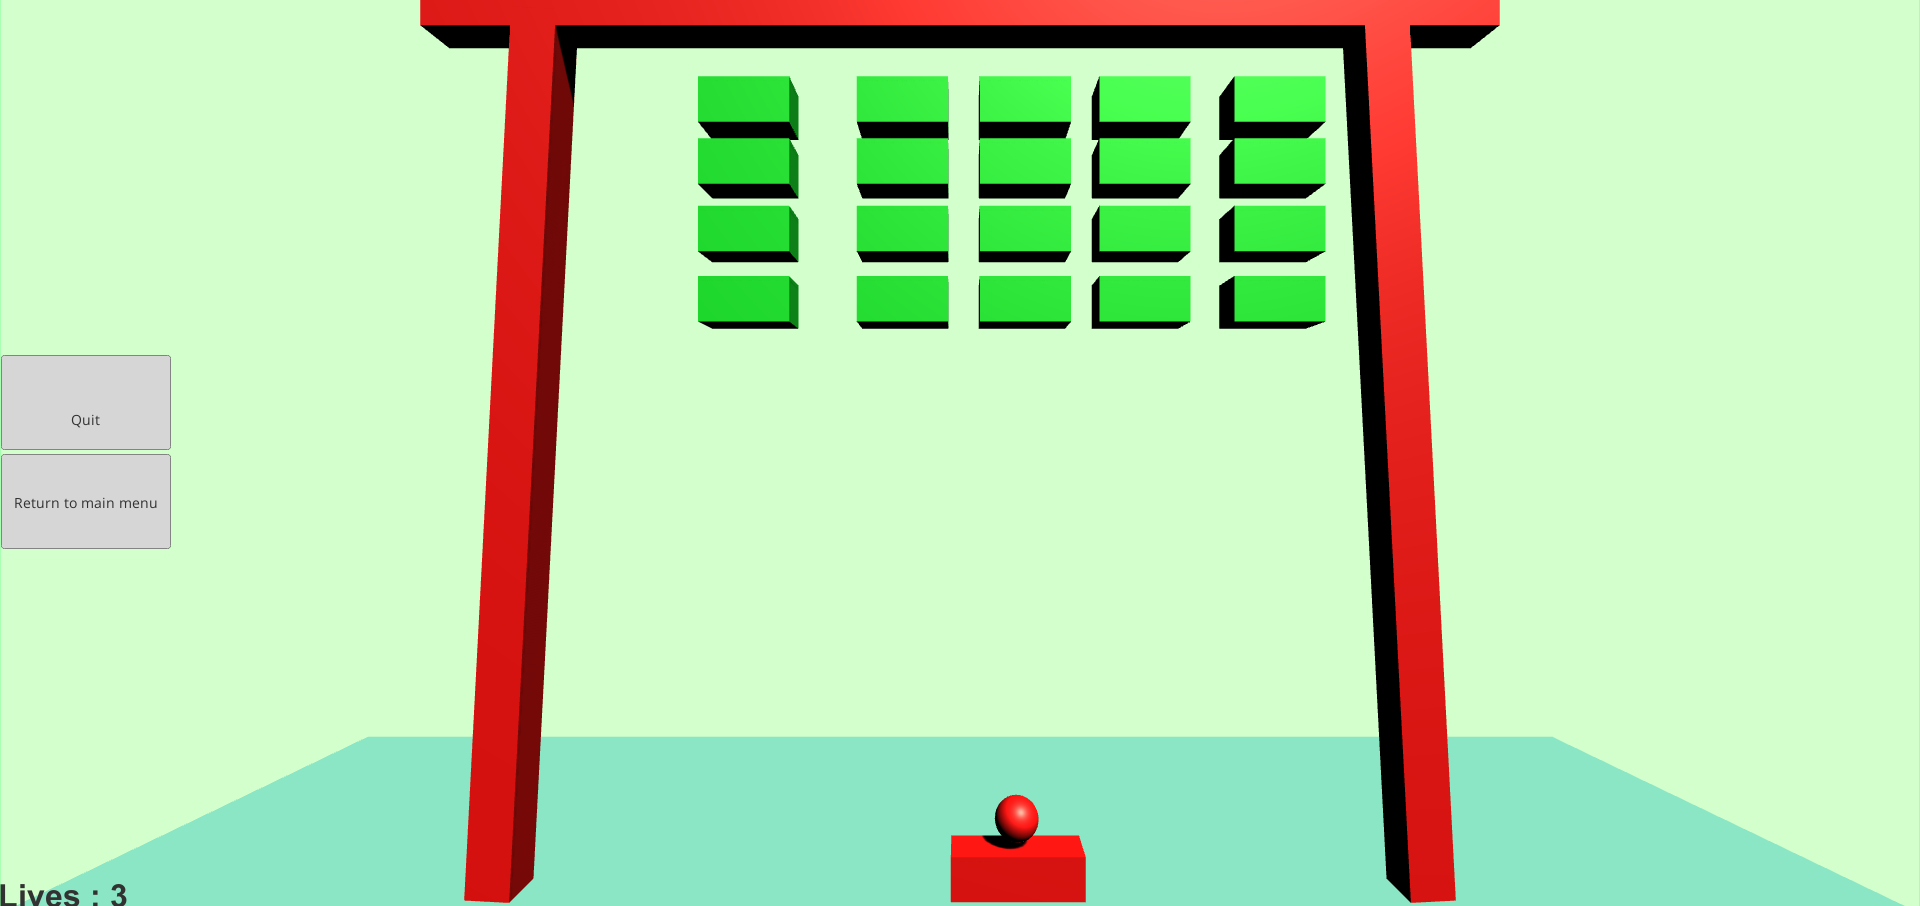
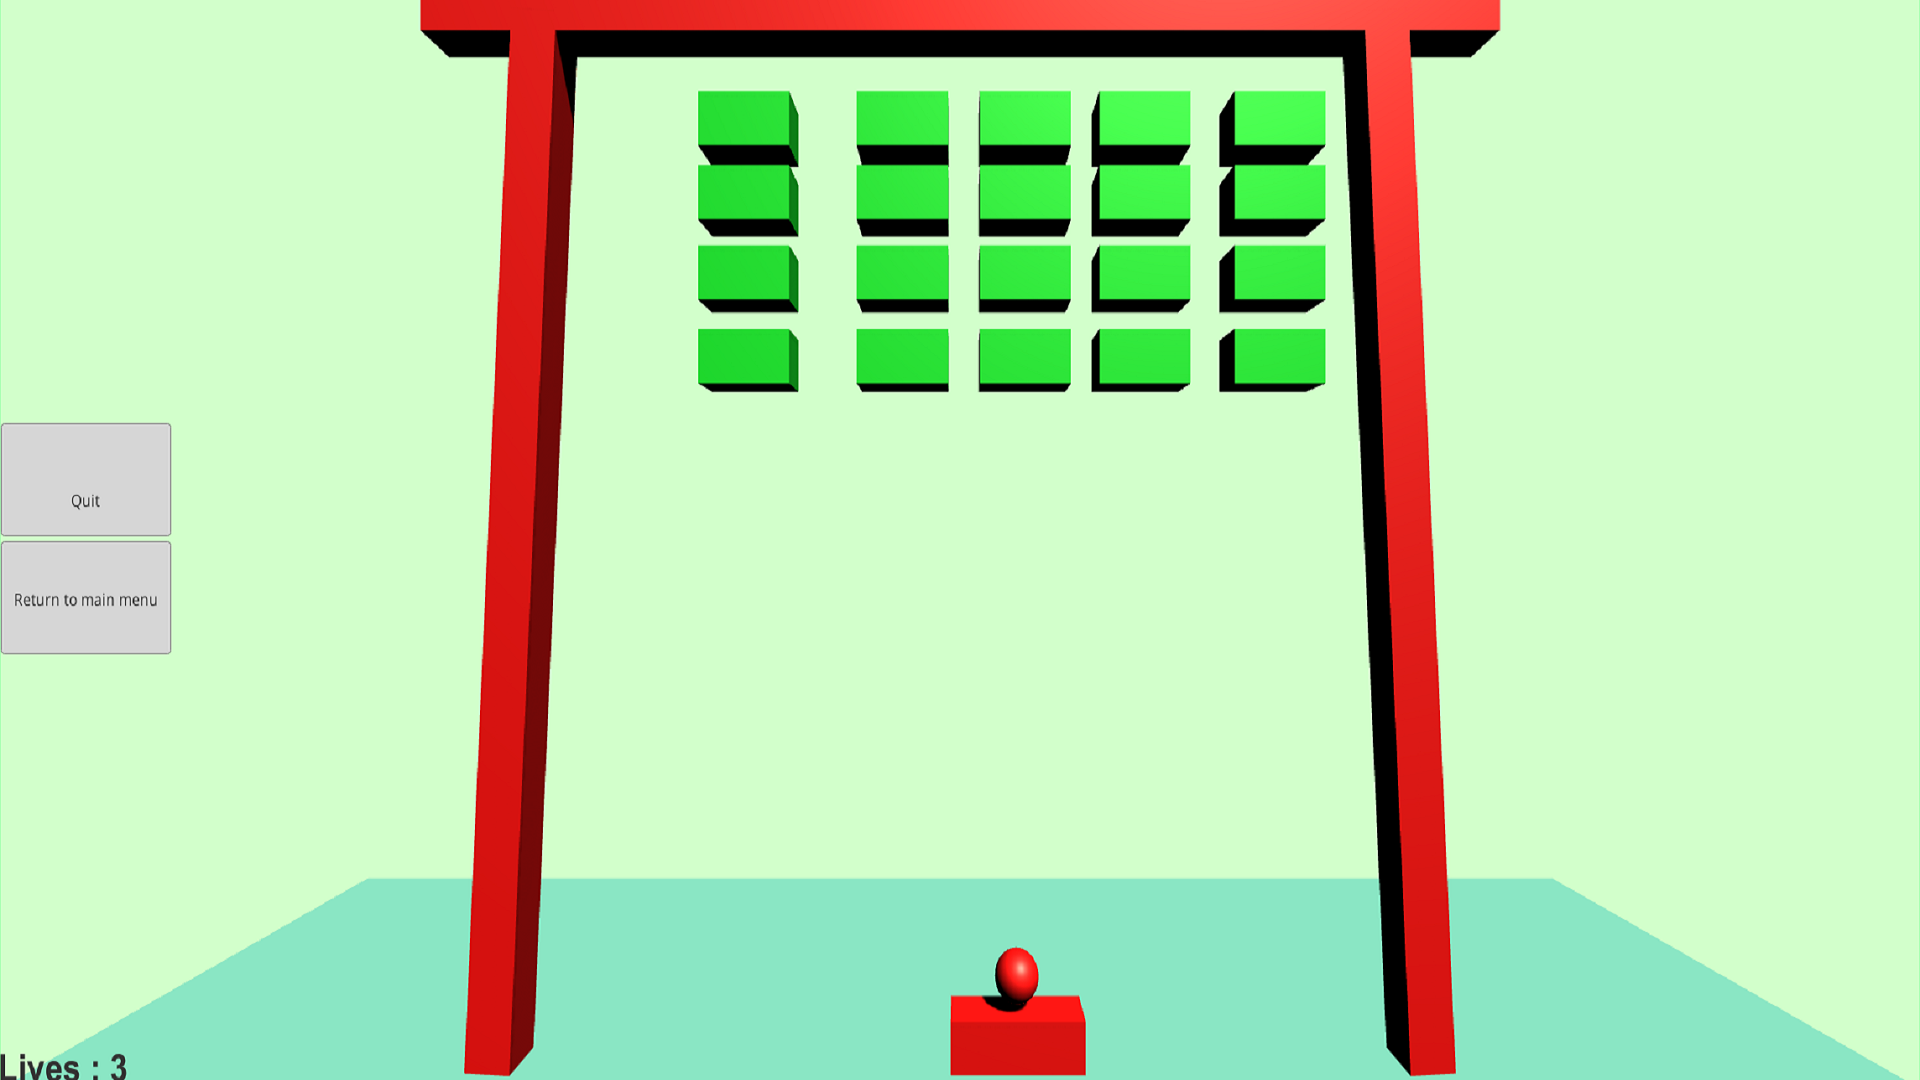
Fixed Carousel
Fixed Carousel and resized pictures to 1920 x 1080

diff --git a/index.html b/index.html
@@ -3,69 +3,69 @@
 <html>
 
   <head>
-    <link href="Pages/bootstrap.css" rel="stylesheet">
-    <link href="Pages/Finished structure of a website CSS.css" rel="stylesheet" type="text/css">
-    <link rel="stylesheet" href="https://maxcdn.bootstrapcdn.com/bootstrap/3.3.7/css/bootstrap.min.css">
-    <script src="https://ajax.googleapis.com/ajax/libs/jquery/3.2.1/jquery.min.js"></script>
-    <script src="https://maxcdn.bootstrapcdn.com/bootstrap/3.3.7/js/bootstrap.min.js"></script>    
+	<link href="Pages/bootstrap.css" rel="stylesheet">
+	<link href="Pages/Finished structure of a website CSS.css" rel="stylesheet" type="text/css">
+	<link rel="stylesheet" href="https://maxcdn.bootstrapcdn.com/bootstrap/3.3.7/css/bootstrap.min.css">
+	<script src="https://ajax.googleapis.com/ajax/libs/jquery/3.2.1/jquery.min.js"></script>
+	<script src="https://maxcdn.bootstrapcdn.com/bootstrap/3.3.7/js/bootstrap.min.js"></script>    
   </head>
 
   <body>
-    <div class="nav">
-      <div class="container">
-        <ul class="pull-left">
-          <li><a href="index.html">Home</a></li>
-        </ul>
-      </div>
-    </div>
+	<div class="nav">
+	  <div class="container">
+		<ul class="pull-left">
+		  <li><a href="index.html">Home</a></li>
+		</ul>
+	  </div>
+	</div>
 
-    <div class="jumbotron">
-      <div class="container">
-        <h1>Welcome to my website</h1>
-        <p>The first two links are my most recents projects. The third link will take you to a page where you can see all my work.</p>          
-      </div>
-    </div> 
+	<div class="jumbotron">
+	  <div class="container">
+		<h1>Welcome to my website</h1>
+		<p>The first two links are my most recents projects. The third link will take you to a page where you can see all my work.</p>          
+	  </div>
+	</div> 
 
-      <div class="container">
+	  <div class="container">
   <div id="myCarousel" class="carousel slide" data-ride="carousel">
-    <!-- Indicators -->
-    <ol class="carousel-indicators">
-      <li data-target="#myCarousel" data-slide-to="0" class="active"></li>
-      <li data-target="#myCarousel" data-slide-to="1"></li>
-      <li data-target="#myCarousel" data-slide-to="2"></li>
-    </ol>
+	<!-- Indicators -->
+	<ol class="carousel-indicators">
+	  <li data-target="#myCarousel" data-slide-to="0" class="active"></li>
+	  <li data-target="#myCarousel" data-slide-to="1"></li>
+	  <li data-target="#myCarousel" data-slide-to="2"></li>
+	</ol>
 
-    <!-- Wrapper for slides -->
-    <div class="carousel-inner">
-      <div class="item active">
-        <img src="Images/Pong.png" alt="Pong" style="width:100%;">
-      </div>
+	<!-- Wrapper for slides -->
+	<div class="carousel-inner">
+	  <div class="item active">
+		<img src="Images/Pong.png" alt="Pong" style="width:100%;height:100%">
+	  </div>
 
-      <div class="item">
-        <img src="Images/Breakout.png" alt="Breakout" style="width:100%;">
-      </div>
-    
-      <div class="item">
-        <img src="Images/Hotel_System.PNG" alt="Hotel System" style="width:100%;">
-      </div>
-    </div>
+	  <div class="item">
+		<img src="Images/Breakout.png" alt="Breakout" style="width:100%;height:100%">
+	  </div>
+	
+	  <div class="item">
+		<img src="Images/Hotel_System.PNG" alt="Hotel System" style="width:100%;height:100%">
+	  </div>
+	</div>
 
-    <!-- Left and right controls -->
-    <a class="left carousel-control" href="#myCarousel" data-slide="prev">
-      <span class="glyphicon glyphicon-chevron-left"></span>
-      <span class="sr-only">Previous</span>
-    </a>
-    <a class="right carousel-control" href="#myCarousel" data-slide="next">
-      <span class="glyphicon glyphicon-chevron-right"></span>
-      <span class="sr-only">Next</span>
-    </a>
+	<!-- Left and right controls -->
+	<a class="left carousel-control" href="#myCarousel" data-slide="prev">
+	  <span class="glyphicon glyphicon-chevron-left"></span>
+	  <span class="sr-only">Previous</span>
+	</a>
+	<a class="right carousel-control" href="#myCarousel" data-slide="next">
+	  <span class="glyphicon glyphicon-chevron-right"></span>
+	  <span class="sr-only">Next</span>
+	</a>
   </div>
 </div>
 
-    <div class="learn-more">
+	<div class="learn-more">
 	  <div class="container">
 		<div class="row">
-	  	  <div class="col-md-4">
+		  <div class="col-md-4">
 			<h3>Pong</h3>
 			<p>Click the button below to try my pong game</p>
 			<p><a href="Pages/Pong_game.html">Try it now.</a></p>
@@ -76,15 +76,15 @@
 
 			<p><a href="Pages/Hotel_System.html">Link</a></p>
 
-	      </div>
+		  </div>
 		  <div class="col-md-4">
 			<h3>All projects</h3>
 			<p>This link will take you to a webpage where you can view all my work so far.</p>
 			<p><a href="Pages/All_Software.html">Link.</a></p>
 		  </div>
-	    </div>
+		</div>
 	  </div>
 	</div>
-      
+	  
   </body>
 </html>
